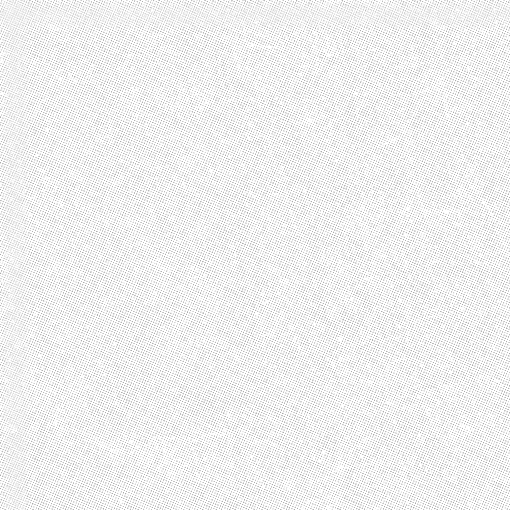
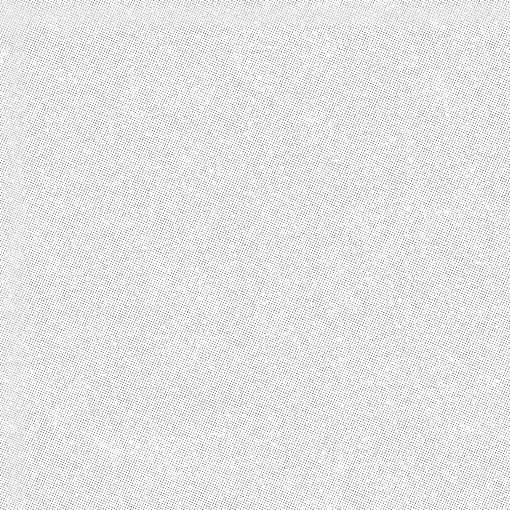
Halbtonraster größer (420 px), dunkler (×1,7) und auf allen farbigen Flächen inkl. Abspiel-, Zurück-, Pfeil- und Hoch-Knöpfen (Wunsch Nicolas)

diff --git a/archiv/2026-11-10.html b/archiv/2026-11-10.html
@@ -1298,10 +1298,17 @@ article .rubrik.nur-datum::before { display: none !important; }
 #kurz .stimme-name { display: none !important; }
 /* Halbtonraster wie in den Videos (FILMCRAFT-Vorgabe: „Grunge 265 fein“ von texturelabs, Multiplizieren, Kontrast ×1,2, nur abdunkeln)
    auf Zetteln, Überschrift-Kästen, Knöpfen und Datumsschnipseln (Nicolas 2026-11-28: „sieht zu plain aus, zu flach“). Kachel: /bilder/halbton.png */
-:root { --raster: url("/bilder/halbton.png"); --raster-gr: 320px; }   /* 2026-11-28: 170 → 320 px, Nicolas: „ein bisschen größer, sieht man fast gar nicht“ */
+:root { --raster: url("/bilder/halbton.png"); --raster-gr: 420px; }   /* 2026-11-28: 170 → 320 → 420 px und dunkler (Kachel ×1,7), Nicolas: „deutlicher, größer, dunkler, auf allen farbigen Flächen“ */
 .zettel::before { background-image: var(--raster), var(--faser), linear-gradient(115deg, rgba(255,255,255,0.16), transparent 45%, rgba(0,0,0,0.08) 75%) !important; background-size: var(--raster-gr), auto, auto !important; }
 article h3, .leiste-oben > a, .news-knopf, .story-inline .folie a, .menue-knopf { background-image: var(--raster), var(--faser) !important; background-size: var(--raster-gr), auto !important; }
 .erpress span { background-image: var(--raster) !important; background-size: var(--raster-gr) !important; }
+/* auf ALLEN farbigen Flächen: Abspiel-/Zurück-Knöpfe, Pfeile, „Alles anhören“, Hoch, Hilfe, Klebestreifen, Aufrufe, Kanal-Knöpfe, Shop */
+.hoeren button, .pfeil, #btn-lesen, button.hoch, .hilfe-knopf, span.aufrufe, article h3::after, article h3::before, a.tt, a.yt, a.patreon, a.anfrage,
+button.werte-los, span.profil::after, span.marke, button.wagen, .liste-hinweis, .kurz li a::after, .story-inline .balken span {
+  background-image: var(--raster), var(--faser) !important; background-size: var(--raster-gr), auto !important; }
+html body .leiste .hoch, html body .hoeren button.zurueck10, html body .zurueck10, html body .news-wahl a, html body .filter button, html body .menue nav a[href="/archiv/"] {
+  background-image: var(--raster), var(--faser) !important; background-size: var(--raster-gr), auto !important; }
+html.kontrast .hoeren button, html.kontrast .pfeil, html.kontrast #btn-lesen, html.kontrast button.hoch, html.kontrast .hilfe-knopf { background-image: none !important; }
 html.kontrast .zettel::before, html.kontrast article h3, html.kontrast .leiste-oben > a, html.kontrast .news-knopf, html.kontrast .erpress span { background-image: none !important; }
 </style>
 </head>

diff --git a/archiv/2026-11-11.html b/archiv/2026-11-11.html
@@ -1298,10 +1298,17 @@ article .rubrik.nur-datum::before { display: none !important; }
 #kurz .stimme-name { display: none !important; }
 /* Halbtonraster wie in den Videos (FILMCRAFT-Vorgabe: „Grunge 265 fein“ von texturelabs, Multiplizieren, Kontrast ×1,2, nur abdunkeln)
    auf Zetteln, Überschrift-Kästen, Knöpfen und Datumsschnipseln (Nicolas 2026-11-28: „sieht zu plain aus, zu flach“). Kachel: /bilder/halbton.png */
-:root { --raster: url("/bilder/halbton.png"); --raster-gr: 320px; }   /* 2026-11-28: 170 → 320 px, Nicolas: „ein bisschen größer, sieht man fast gar nicht“ */
+:root { --raster: url("/bilder/halbton.png"); --raster-gr: 420px; }   /* 2026-11-28: 170 → 320 → 420 px und dunkler (Kachel ×1,7), Nicolas: „deutlicher, größer, dunkler, auf allen farbigen Flächen“ */
 .zettel::before { background-image: var(--raster), var(--faser), linear-gradient(115deg, rgba(255,255,255,0.16), transparent 45%, rgba(0,0,0,0.08) 75%) !important; background-size: var(--raster-gr), auto, auto !important; }
 article h3, .leiste-oben > a, .news-knopf, .story-inline .folie a, .menue-knopf { background-image: var(--raster), var(--faser) !important; background-size: var(--raster-gr), auto !important; }
 .erpress span { background-image: var(--raster) !important; background-size: var(--raster-gr) !important; }
+/* auf ALLEN farbigen Flächen: Abspiel-/Zurück-Knöpfe, Pfeile, „Alles anhören“, Hoch, Hilfe, Klebestreifen, Aufrufe, Kanal-Knöpfe, Shop */
+.hoeren button, .pfeil, #btn-lesen, button.hoch, .hilfe-knopf, span.aufrufe, article h3::after, article h3::before, a.tt, a.yt, a.patreon, a.anfrage,
+button.werte-los, span.profil::after, span.marke, button.wagen, .liste-hinweis, .kurz li a::after, .story-inline .balken span {
+  background-image: var(--raster), var(--faser) !important; background-size: var(--raster-gr), auto !important; }
+html body .leiste .hoch, html body .hoeren button.zurueck10, html body .zurueck10, html body .news-wahl a, html body .filter button, html body .menue nav a[href="/archiv/"] {
+  background-image: var(--raster), var(--faser) !important; background-size: var(--raster-gr), auto !important; }
+html.kontrast .hoeren button, html.kontrast .pfeil, html.kontrast #btn-lesen, html.kontrast button.hoch, html.kontrast .hilfe-knopf { background-image: none !important; }
 html.kontrast .zettel::before, html.kontrast article h3, html.kontrast .leiste-oben > a, html.kontrast .news-knopf, html.kontrast .erpress span { background-image: none !important; }
 </style>
 </head>

diff --git a/archiv/2026-11-12.html b/archiv/2026-11-12.html
@@ -1298,10 +1298,17 @@ article .rubrik.nur-datum::before { display: none !important; }
 #kurz .stimme-name { display: none !important; }
 /* Halbtonraster wie in den Videos (FILMCRAFT-Vorgabe: „Grunge 265 fein“ von texturelabs, Multiplizieren, Kontrast ×1,2, nur abdunkeln)
    auf Zetteln, Überschrift-Kästen, Knöpfen und Datumsschnipseln (Nicolas 2026-11-28: „sieht zu plain aus, zu flach“). Kachel: /bilder/halbton.png */
-:root { --raster: url("/bilder/halbton.png"); --raster-gr: 320px; }   /* 2026-11-28: 170 → 320 px, Nicolas: „ein bisschen größer, sieht man fast gar nicht“ */
+:root { --raster: url("/bilder/halbton.png"); --raster-gr: 420px; }   /* 2026-11-28: 170 → 320 → 420 px und dunkler (Kachel ×1,7), Nicolas: „deutlicher, größer, dunkler, auf allen farbigen Flächen“ */
 .zettel::before { background-image: var(--raster), var(--faser), linear-gradient(115deg, rgba(255,255,255,0.16), transparent 45%, rgba(0,0,0,0.08) 75%) !important; background-size: var(--raster-gr), auto, auto !important; }
 article h3, .leiste-oben > a, .news-knopf, .story-inline .folie a, .menue-knopf { background-image: var(--raster), var(--faser) !important; background-size: var(--raster-gr), auto !important; }
 .erpress span { background-image: var(--raster) !important; background-size: var(--raster-gr) !important; }
+/* auf ALLEN farbigen Flächen: Abspiel-/Zurück-Knöpfe, Pfeile, „Alles anhören“, Hoch, Hilfe, Klebestreifen, Aufrufe, Kanal-Knöpfe, Shop */
+.hoeren button, .pfeil, #btn-lesen, button.hoch, .hilfe-knopf, span.aufrufe, article h3::after, article h3::before, a.tt, a.yt, a.patreon, a.anfrage,
+button.werte-los, span.profil::after, span.marke, button.wagen, .liste-hinweis, .kurz li a::after, .story-inline .balken span {
+  background-image: var(--raster), var(--faser) !important; background-size: var(--raster-gr), auto !important; }
+html body .leiste .hoch, html body .hoeren button.zurueck10, html body .zurueck10, html body .news-wahl a, html body .filter button, html body .menue nav a[href="/archiv/"] {
+  background-image: var(--raster), var(--faser) !important; background-size: var(--raster-gr), auto !important; }
+html.kontrast .hoeren button, html.kontrast .pfeil, html.kontrast #btn-lesen, html.kontrast button.hoch, html.kontrast .hilfe-knopf { background-image: none !important; }
 html.kontrast .zettel::before, html.kontrast article h3, html.kontrast .leiste-oben > a, html.kontrast .news-knopf, html.kontrast .erpress span { background-image: none !important; }
 </style>
 </head>

diff --git a/archiv/2026-11-13.html b/archiv/2026-11-13.html
@@ -1298,10 +1298,17 @@ article .rubrik.nur-datum::before { display: none !important; }
 #kurz .stimme-name { display: none !important; }
 /* Halbtonraster wie in den Videos (FILMCRAFT-Vorgabe: „Grunge 265 fein“ von texturelabs, Multiplizieren, Kontrast ×1,2, nur abdunkeln)
    auf Zetteln, Überschrift-Kästen, Knöpfen und Datumsschnipseln (Nicolas 2026-11-28: „sieht zu plain aus, zu flach“). Kachel: /bilder/halbton.png */
-:root { --raster: url("/bilder/halbton.png"); --raster-gr: 320px; }   /* 2026-11-28: 170 → 320 px, Nicolas: „ein bisschen größer, sieht man fast gar nicht“ */
+:root { --raster: url("/bilder/halbton.png"); --raster-gr: 420px; }   /* 2026-11-28: 170 → 320 → 420 px und dunkler (Kachel ×1,7), Nicolas: „deutlicher, größer, dunkler, auf allen farbigen Flächen“ */
 .zettel::before { background-image: var(--raster), var(--faser), linear-gradient(115deg, rgba(255,255,255,0.16), transparent 45%, rgba(0,0,0,0.08) 75%) !important; background-size: var(--raster-gr), auto, auto !important; }
 article h3, .leiste-oben > a, .news-knopf, .story-inline .folie a, .menue-knopf { background-image: var(--raster), var(--faser) !important; background-size: var(--raster-gr), auto !important; }
 .erpress span { background-image: var(--raster) !important; background-size: var(--raster-gr) !important; }
+/* auf ALLEN farbigen Flächen: Abspiel-/Zurück-Knöpfe, Pfeile, „Alles anhören“, Hoch, Hilfe, Klebestreifen, Aufrufe, Kanal-Knöpfe, Shop */
+.hoeren button, .pfeil, #btn-lesen, button.hoch, .hilfe-knopf, span.aufrufe, article h3::after, article h3::before, a.tt, a.yt, a.patreon, a.anfrage,
+button.werte-los, span.profil::after, span.marke, button.wagen, .liste-hinweis, .kurz li a::after, .story-inline .balken span {
+  background-image: var(--raster), var(--faser) !important; background-size: var(--raster-gr), auto !important; }
+html body .leiste .hoch, html body .hoeren button.zurueck10, html body .zurueck10, html body .news-wahl a, html body .filter button, html body .menue nav a[href="/archiv/"] {
+  background-image: var(--raster), var(--faser) !important; background-size: var(--raster-gr), auto !important; }
+html.kontrast .hoeren button, html.kontrast .pfeil, html.kontrast #btn-lesen, html.kontrast button.hoch, html.kontrast .hilfe-knopf { background-image: none !important; }
 html.kontrast .zettel::before, html.kontrast article h3, html.kontrast .leiste-oben > a, html.kontrast .news-knopf, html.kontrast .erpress span { background-image: none !important; }
 </style>
 </head>

diff --git a/archiv/2026-11-14.html b/archiv/2026-11-14.html
@@ -1298,10 +1298,17 @@ article .rubrik.nur-datum::before { display: none !important; }
 #kurz .stimme-name { display: none !important; }
 /* Halbtonraster wie in den Videos (FILMCRAFT-Vorgabe: „Grunge 265 fein“ von texturelabs, Multiplizieren, Kontrast ×1,2, nur abdunkeln)
    auf Zetteln, Überschrift-Kästen, Knöpfen und Datumsschnipseln (Nicolas 2026-11-28: „sieht zu plain aus, zu flach“). Kachel: /bilder/halbton.png */
-:root { --raster: url("/bilder/halbton.png"); --raster-gr: 320px; }   /* 2026-11-28: 170 → 320 px, Nicolas: „ein bisschen größer, sieht man fast gar nicht“ */
+:root { --raster: url("/bilder/halbton.png"); --raster-gr: 420px; }   /* 2026-11-28: 170 → 320 → 420 px und dunkler (Kachel ×1,7), Nicolas: „deutlicher, größer, dunkler, auf allen farbigen Flächen“ */
 .zettel::before { background-image: var(--raster), var(--faser), linear-gradient(115deg, rgba(255,255,255,0.16), transparent 45%, rgba(0,0,0,0.08) 75%) !important; background-size: var(--raster-gr), auto, auto !important; }
 article h3, .leiste-oben > a, .news-knopf, .story-inline .folie a, .menue-knopf { background-image: var(--raster), var(--faser) !important; background-size: var(--raster-gr), auto !important; }
 .erpress span { background-image: var(--raster) !important; background-size: var(--raster-gr) !important; }
+/* auf ALLEN farbigen Flächen: Abspiel-/Zurück-Knöpfe, Pfeile, „Alles anhören“, Hoch, Hilfe, Klebestreifen, Aufrufe, Kanal-Knöpfe, Shop */
+.hoeren button, .pfeil, #btn-lesen, button.hoch, .hilfe-knopf, span.aufrufe, article h3::after, article h3::before, a.tt, a.yt, a.patreon, a.anfrage,
+button.werte-los, span.profil::after, span.marke, button.wagen, .liste-hinweis, .kurz li a::after, .story-inline .balken span {
+  background-image: var(--raster), var(--faser) !important; background-size: var(--raster-gr), auto !important; }
+html body .leiste .hoch, html body .hoeren button.zurueck10, html body .zurueck10, html body .news-wahl a, html body .filter button, html body .menue nav a[href="/archiv/"] {
+  background-image: var(--raster), var(--faser) !important; background-size: var(--raster-gr), auto !important; }
+html.kontrast .hoeren button, html.kontrast .pfeil, html.kontrast #btn-lesen, html.kontrast button.hoch, html.kontrast .hilfe-knopf { background-image: none !important; }
 html.kontrast .zettel::before, html.kontrast article h3, html.kontrast .leiste-oben > a, html.kontrast .news-knopf, html.kontrast .erpress span { background-image: none !important; }
 </style>
 </head>

diff --git a/archiv/2026-11-15.html b/archiv/2026-11-15.html
@@ -1298,10 +1298,17 @@ article .rubrik.nur-datum::before { display: none !important; }
 #kurz .stimme-name { display: none !important; }
 /* Halbtonraster wie in den Videos (FILMCRAFT-Vorgabe: „Grunge 265 fein“ von texturelabs, Multiplizieren, Kontrast ×1,2, nur abdunkeln)
    auf Zetteln, Überschrift-Kästen, Knöpfen und Datumsschnipseln (Nicolas 2026-11-28: „sieht zu plain aus, zu flach“). Kachel: /bilder/halbton.png */
-:root { --raster: url("/bilder/halbton.png"); --raster-gr: 320px; }   /* 2026-11-28: 170 → 320 px, Nicolas: „ein bisschen größer, sieht man fast gar nicht“ */
+:root { --raster: url("/bilder/halbton.png"); --raster-gr: 420px; }   /* 2026-11-28: 170 → 320 → 420 px und dunkler (Kachel ×1,7), Nicolas: „deutlicher, größer, dunkler, auf allen farbigen Flächen“ */
 .zettel::before { background-image: var(--raster), var(--faser), linear-gradient(115deg, rgba(255,255,255,0.16), transparent 45%, rgba(0,0,0,0.08) 75%) !important; background-size: var(--raster-gr), auto, auto !important; }
 article h3, .leiste-oben > a, .news-knopf, .story-inline .folie a, .menue-knopf { background-image: var(--raster), var(--faser) !important; background-size: var(--raster-gr), auto !important; }
 .erpress span { background-image: var(--raster) !important; background-size: var(--raster-gr) !important; }
+/* auf ALLEN farbigen Flächen: Abspiel-/Zurück-Knöpfe, Pfeile, „Alles anhören“, Hoch, Hilfe, Klebestreifen, Aufrufe, Kanal-Knöpfe, Shop */
+.hoeren button, .pfeil, #btn-lesen, button.hoch, .hilfe-knopf, span.aufrufe, article h3::after, article h3::before, a.tt, a.yt, a.patreon, a.anfrage,
+button.werte-los, span.profil::after, span.marke, button.wagen, .liste-hinweis, .kurz li a::after, .story-inline .balken span {
+  background-image: var(--raster), var(--faser) !important; background-size: var(--raster-gr), auto !important; }
+html body .leiste .hoch, html body .hoeren button.zurueck10, html body .zurueck10, html body .news-wahl a, html body .filter button, html body .menue nav a[href="/archiv/"] {
+  background-image: var(--raster), var(--faser) !important; background-size: var(--raster-gr), auto !important; }
+html.kontrast .hoeren button, html.kontrast .pfeil, html.kontrast #btn-lesen, html.kontrast button.hoch, html.kontrast .hilfe-knopf { background-image: none !important; }
 html.kontrast .zettel::before, html.kontrast article h3, html.kontrast .leiste-oben > a, html.kontrast .news-knopf, html.kontrast .erpress span { background-image: none !important; }
 </style>
 </head>

diff --git a/archiv/2026-11-16.html b/archiv/2026-11-16.html
@@ -1298,10 +1298,17 @@ article .rubrik.nur-datum::before { display: none !important; }
 #kurz .stimme-name { display: none !important; }
 /* Halbtonraster wie in den Videos (FILMCRAFT-Vorgabe: „Grunge 265 fein“ von texturelabs, Multiplizieren, Kontrast ×1,2, nur abdunkeln)
    auf Zetteln, Überschrift-Kästen, Knöpfen und Datumsschnipseln (Nicolas 2026-11-28: „sieht zu plain aus, zu flach“). Kachel: /bilder/halbton.png */
-:root { --raster: url("/bilder/halbton.png"); --raster-gr: 320px; }   /* 2026-11-28: 170 → 320 px, Nicolas: „ein bisschen größer, sieht man fast gar nicht“ */
+:root { --raster: url("/bilder/halbton.png"); --raster-gr: 420px; }   /* 2026-11-28: 170 → 320 → 420 px und dunkler (Kachel ×1,7), Nicolas: „deutlicher, größer, dunkler, auf allen farbigen Flächen“ */
 .zettel::before { background-image: var(--raster), var(--faser), linear-gradient(115deg, rgba(255,255,255,0.16), transparent 45%, rgba(0,0,0,0.08) 75%) !important; background-size: var(--raster-gr), auto, auto !important; }
 article h3, .leiste-oben > a, .news-knopf, .story-inline .folie a, .menue-knopf { background-image: var(--raster), var(--faser) !important; background-size: var(--raster-gr), auto !important; }
 .erpress span { background-image: var(--raster) !important; background-size: var(--raster-gr) !important; }
+/* auf ALLEN farbigen Flächen: Abspiel-/Zurück-Knöpfe, Pfeile, „Alles anhören“, Hoch, Hilfe, Klebestreifen, Aufrufe, Kanal-Knöpfe, Shop */
+.hoeren button, .pfeil, #btn-lesen, button.hoch, .hilfe-knopf, span.aufrufe, article h3::after, article h3::before, a.tt, a.yt, a.patreon, a.anfrage,
+button.werte-los, span.profil::after, span.marke, button.wagen, .liste-hinweis, .kurz li a::after, .story-inline .balken span {
+  background-image: var(--raster), var(--faser) !important; background-size: var(--raster-gr), auto !important; }
+html body .leiste .hoch, html body .hoeren button.zurueck10, html body .zurueck10, html body .news-wahl a, html body .filter button, html body .menue nav a[href="/archiv/"] {
+  background-image: var(--raster), var(--faser) !important; background-size: var(--raster-gr), auto !important; }
+html.kontrast .hoeren button, html.kontrast .pfeil, html.kontrast #btn-lesen, html.kontrast button.hoch, html.kontrast .hilfe-knopf { background-image: none !important; }
 html.kontrast .zettel::before, html.kontrast article h3, html.kontrast .leiste-oben > a, html.kontrast .news-knopf, html.kontrast .erpress span { background-image: none !important; }
 </style>
 </head>

diff --git a/archiv/2026-11-17.html b/archiv/2026-11-17.html
@@ -1298,10 +1298,17 @@ article .rubrik.nur-datum::before { display: none !important; }
 #kurz .stimme-name { display: none !important; }
 /* Halbtonraster wie in den Videos (FILMCRAFT-Vorgabe: „Grunge 265 fein“ von texturelabs, Multiplizieren, Kontrast ×1,2, nur abdunkeln)
    auf Zetteln, Überschrift-Kästen, Knöpfen und Datumsschnipseln (Nicolas 2026-11-28: „sieht zu plain aus, zu flach“). Kachel: /bilder/halbton.png */
-:root { --raster: url("/bilder/halbton.png"); --raster-gr: 320px; }   /* 2026-11-28: 170 → 320 px, Nicolas: „ein bisschen größer, sieht man fast gar nicht“ */
+:root { --raster: url("/bilder/halbton.png"); --raster-gr: 420px; }   /* 2026-11-28: 170 → 320 → 420 px und dunkler (Kachel ×1,7), Nicolas: „deutlicher, größer, dunkler, auf allen farbigen Flächen“ */
 .zettel::before { background-image: var(--raster), var(--faser), linear-gradient(115deg, rgba(255,255,255,0.16), transparent 45%, rgba(0,0,0,0.08) 75%) !important; background-size: var(--raster-gr), auto, auto !important; }
 article h3, .leiste-oben > a, .news-knopf, .story-inline .folie a, .menue-knopf { background-image: var(--raster), var(--faser) !important; background-size: var(--raster-gr), auto !important; }
 .erpress span { background-image: var(--raster) !important; background-size: var(--raster-gr) !important; }
+/* auf ALLEN farbigen Flächen: Abspiel-/Zurück-Knöpfe, Pfeile, „Alles anhören“, Hoch, Hilfe, Klebestreifen, Aufrufe, Kanal-Knöpfe, Shop */
+.hoeren button, .pfeil, #btn-lesen, button.hoch, .hilfe-knopf, span.aufrufe, article h3::after, article h3::before, a.tt, a.yt, a.patreon, a.anfrage,
+button.werte-los, span.profil::after, span.marke, button.wagen, .liste-hinweis, .kurz li a::after, .story-inline .balken span {
+  background-image: var(--raster), var(--faser) !important; background-size: var(--raster-gr), auto !important; }
+html body .leiste .hoch, html body .hoeren button.zurueck10, html body .zurueck10, html body .news-wahl a, html body .filter button, html body .menue nav a[href="/archiv/"] {
+  background-image: var(--raster), var(--faser) !important; background-size: var(--raster-gr), auto !important; }
+html.kontrast .hoeren button, html.kontrast .pfeil, html.kontrast #btn-lesen, html.kontrast button.hoch, html.kontrast .hilfe-knopf { background-image: none !important; }
 html.kontrast .zettel::before, html.kontrast article h3, html.kontrast .leiste-oben > a, html.kontrast .news-knopf, html.kontrast .erpress span { background-image: none !important; }
 </style>
 </head>

diff --git a/archiv/2026-11-18.html b/archiv/2026-11-18.html
@@ -1298,10 +1298,17 @@ article .rubrik.nur-datum::before { display: none !important; }
 #kurz .stimme-name { display: none !important; }
 /* Halbtonraster wie in den Videos (FILMCRAFT-Vorgabe: „Grunge 265 fein“ von texturelabs, Multiplizieren, Kontrast ×1,2, nur abdunkeln)
    auf Zetteln, Überschrift-Kästen, Knöpfen und Datumsschnipseln (Nicolas 2026-11-28: „sieht zu plain aus, zu flach“). Kachel: /bilder/halbton.png */
-:root { --raster: url("/bilder/halbton.png"); --raster-gr: 320px; }   /* 2026-11-28: 170 → 320 px, Nicolas: „ein bisschen größer, sieht man fast gar nicht“ */
+:root { --raster: url("/bilder/halbton.png"); --raster-gr: 420px; }   /* 2026-11-28: 170 → 320 → 420 px und dunkler (Kachel ×1,7), Nicolas: „deutlicher, größer, dunkler, auf allen farbigen Flächen“ */
 .zettel::before { background-image: var(--raster), var(--faser), linear-gradient(115deg, rgba(255,255,255,0.16), transparent 45%, rgba(0,0,0,0.08) 75%) !important; background-size: var(--raster-gr), auto, auto !important; }
 article h3, .leiste-oben > a, .news-knopf, .story-inline .folie a, .menue-knopf { background-image: var(--raster), var(--faser) !important; background-size: var(--raster-gr), auto !important; }
 .erpress span { background-image: var(--raster) !important; background-size: var(--raster-gr) !important; }
+/* auf ALLEN farbigen Flächen: Abspiel-/Zurück-Knöpfe, Pfeile, „Alles anhören“, Hoch, Hilfe, Klebestreifen, Aufrufe, Kanal-Knöpfe, Shop */
+.hoeren button, .pfeil, #btn-lesen, button.hoch, .hilfe-knopf, span.aufrufe, article h3::after, article h3::before, a.tt, a.yt, a.patreon, a.anfrage,
+button.werte-los, span.profil::after, span.marke, button.wagen, .liste-hinweis, .kurz li a::after, .story-inline .balken span {
+  background-image: var(--raster), var(--faser) !important; background-size: var(--raster-gr), auto !important; }
+html body .leiste .hoch, html body .hoeren button.zurueck10, html body .zurueck10, html body .news-wahl a, html body .filter button, html body .menue nav a[href="/archiv/"] {
+  background-image: var(--raster), var(--faser) !important; background-size: var(--raster-gr), auto !important; }
+html.kontrast .hoeren button, html.kontrast .pfeil, html.kontrast #btn-lesen, html.kontrast button.hoch, html.kontrast .hilfe-knopf { background-image: none !important; }
 html.kontrast .zettel::before, html.kontrast article h3, html.kontrast .leiste-oben > a, html.kontrast .news-knopf, html.kontrast .erpress span { background-image: none !important; }
 </style>
 </head>

diff --git a/archiv/2026-11-19.html b/archiv/2026-11-19.html
@@ -1298,10 +1298,17 @@ article .rubrik.nur-datum::before { display: none !important; }
 #kurz .stimme-name { display: none !important; }
 /* Halbtonraster wie in den Videos (FILMCRAFT-Vorgabe: „Grunge 265 fein“ von texturelabs, Multiplizieren, Kontrast ×1,2, nur abdunkeln)
    auf Zetteln, Überschrift-Kästen, Knöpfen und Datumsschnipseln (Nicolas 2026-11-28: „sieht zu plain aus, zu flach“). Kachel: /bilder/halbton.png */
-:root { --raster: url("/bilder/halbton.png"); --raster-gr: 320px; }   /* 2026-11-28: 170 → 320 px, Nicolas: „ein bisschen größer, sieht man fast gar nicht“ */
+:root { --raster: url("/bilder/halbton.png"); --raster-gr: 420px; }   /* 2026-11-28: 170 → 320 → 420 px und dunkler (Kachel ×1,7), Nicolas: „deutlicher, größer, dunkler, auf allen farbigen Flächen“ */
 .zettel::before { background-image: var(--raster), var(--faser), linear-gradient(115deg, rgba(255,255,255,0.16), transparent 45%, rgba(0,0,0,0.08) 75%) !important; background-size: var(--raster-gr), auto, auto !important; }
 article h3, .leiste-oben > a, .news-knopf, .story-inline .folie a, .menue-knopf { background-image: var(--raster), var(--faser) !important; background-size: var(--raster-gr), auto !important; }
 .erpress span { background-image: var(--raster) !important; background-size: var(--raster-gr) !important; }
+/* auf ALLEN farbigen Flächen: Abspiel-/Zurück-Knöpfe, Pfeile, „Alles anhören“, Hoch, Hilfe, Klebestreifen, Aufrufe, Kanal-Knöpfe, Shop */
+.hoeren button, .pfeil, #btn-lesen, button.hoch, .hilfe-knopf, span.aufrufe, article h3::after, article h3::before, a.tt, a.yt, a.patreon, a.anfrage,
+button.werte-los, span.profil::after, span.marke, button.wagen, .liste-hinweis, .kurz li a::after, .story-inline .balken span {
+  background-image: var(--raster), var(--faser) !important; background-size: var(--raster-gr), auto !important; }
+html body .leiste .hoch, html body .hoeren button.zurueck10, html body .zurueck10, html body .news-wahl a, html body .filter button, html body .menue nav a[href="/archiv/"] {
+  background-image: var(--raster), var(--faser) !important; background-size: var(--raster-gr), auto !important; }
+html.kontrast .hoeren button, html.kontrast .pfeil, html.kontrast #btn-lesen, html.kontrast button.hoch, html.kontrast .hilfe-knopf { background-image: none !important; }
 html.kontrast .zettel::before, html.kontrast article h3, html.kontrast .leiste-oben > a, html.kontrast .news-knopf, html.kontrast .erpress span { background-image: none !important; }
 </style>
 </head>

diff --git a/archiv/2026-11-20.html b/archiv/2026-11-20.html
@@ -1298,10 +1298,17 @@ article .rubrik.nur-datum::before { display: none !important; }
 #kurz .stimme-name { display: none !important; }
 /* Halbtonraster wie in den Videos (FILMCRAFT-Vorgabe: „Grunge 265 fein“ von texturelabs, Multiplizieren, Kontrast ×1,2, nur abdunkeln)
    auf Zetteln, Überschrift-Kästen, Knöpfen und Datumsschnipseln (Nicolas 2026-11-28: „sieht zu plain aus, zu flach“). Kachel: /bilder/halbton.png */
-:root { --raster: url("/bilder/halbton.png"); --raster-gr: 320px; }   /* 2026-11-28: 170 → 320 px, Nicolas: „ein bisschen größer, sieht man fast gar nicht“ */
+:root { --raster: url("/bilder/halbton.png"); --raster-gr: 420px; }   /* 2026-11-28: 170 → 320 → 420 px und dunkler (Kachel ×1,7), Nicolas: „deutlicher, größer, dunkler, auf allen farbigen Flächen“ */
 .zettel::before { background-image: var(--raster), var(--faser), linear-gradient(115deg, rgba(255,255,255,0.16), transparent 45%, rgba(0,0,0,0.08) 75%) !important; background-size: var(--raster-gr), auto, auto !important; }
 article h3, .leiste-oben > a, .news-knopf, .story-inline .folie a, .menue-knopf { background-image: var(--raster), var(--faser) !important; background-size: var(--raster-gr), auto !important; }
 .erpress span { background-image: var(--raster) !important; background-size: var(--raster-gr) !important; }
+/* auf ALLEN farbigen Flächen: Abspiel-/Zurück-Knöpfe, Pfeile, „Alles anhören“, Hoch, Hilfe, Klebestreifen, Aufrufe, Kanal-Knöpfe, Shop */
+.hoeren button, .pfeil, #btn-lesen, button.hoch, .hilfe-knopf, span.aufrufe, article h3::after, article h3::before, a.tt, a.yt, a.patreon, a.anfrage,
+button.werte-los, span.profil::after, span.marke, button.wagen, .liste-hinweis, .kurz li a::after, .story-inline .balken span {
+  background-image: var(--raster), var(--faser) !important; background-size: var(--raster-gr), auto !important; }
+html body .leiste .hoch, html body .hoeren button.zurueck10, html body .zurueck10, html body .news-wahl a, html body .filter button, html body .menue nav a[href="/archiv/"] {
+  background-image: var(--raster), var(--faser) !important; background-size: var(--raster-gr), auto !important; }
+html.kontrast .hoeren button, html.kontrast .pfeil, html.kontrast #btn-lesen, html.kontrast button.hoch, html.kontrast .hilfe-knopf { background-image: none !important; }
 html.kontrast .zettel::before, html.kontrast article h3, html.kontrast .leiste-oben > a, html.kontrast .news-knopf, html.kontrast .erpress span { background-image: none !important; }
 </style>
 </head>

diff --git a/archiv/2026-11-21.html b/archiv/2026-11-21.html
@@ -1298,10 +1298,17 @@ article .rubrik.nur-datum::before { display: none !important; }
 #kurz .stimme-name { display: none !important; }
 /* Halbtonraster wie in den Videos (FILMCRAFT-Vorgabe: „Grunge 265 fein“ von texturelabs, Multiplizieren, Kontrast ×1,2, nur abdunkeln)
    auf Zetteln, Überschrift-Kästen, Knöpfen und Datumsschnipseln (Nicolas 2026-11-28: „sieht zu plain aus, zu flach“). Kachel: /bilder/halbton.png */
-:root { --raster: url("/bilder/halbton.png"); --raster-gr: 320px; }   /* 2026-11-28: 170 → 320 px, Nicolas: „ein bisschen größer, sieht man fast gar nicht“ */
+:root { --raster: url("/bilder/halbton.png"); --raster-gr: 420px; }   /* 2026-11-28: 170 → 320 → 420 px und dunkler (Kachel ×1,7), Nicolas: „deutlicher, größer, dunkler, auf allen farbigen Flächen“ */
 .zettel::before { background-image: var(--raster), var(--faser), linear-gradient(115deg, rgba(255,255,255,0.16), transparent 45%, rgba(0,0,0,0.08) 75%) !important; background-size: var(--raster-gr), auto, auto !important; }
 article h3, .leiste-oben > a, .news-knopf, .story-inline .folie a, .menue-knopf { background-image: var(--raster), var(--faser) !important; background-size: var(--raster-gr), auto !important; }
 .erpress span { background-image: var(--raster) !important; background-size: var(--raster-gr) !important; }
+/* auf ALLEN farbigen Flächen: Abspiel-/Zurück-Knöpfe, Pfeile, „Alles anhören“, Hoch, Hilfe, Klebestreifen, Aufrufe, Kanal-Knöpfe, Shop */
+.hoeren button, .pfeil, #btn-lesen, button.hoch, .hilfe-knopf, span.aufrufe, article h3::after, article h3::before, a.tt, a.yt, a.patreon, a.anfrage,
+button.werte-los, span.profil::after, span.marke, button.wagen, .liste-hinweis, .kurz li a::after, .story-inline .balken span {
+  background-image: var(--raster), var(--faser) !important; background-size: var(--raster-gr), auto !important; }
+html body .leiste .hoch, html body .hoeren button.zurueck10, html body .zurueck10, html body .news-wahl a, html body .filter button, html body .menue nav a[href="/archiv/"] {
+  background-image: var(--raster), var(--faser) !important; background-size: var(--raster-gr), auto !important; }
+html.kontrast .hoeren button, html.kontrast .pfeil, html.kontrast #btn-lesen, html.kontrast button.hoch, html.kontrast .hilfe-knopf { background-image: none !important; }
 html.kontrast .zettel::before, html.kontrast article h3, html.kontrast .leiste-oben > a, html.kontrast .news-knopf, html.kontrast .erpress span { background-image: none !important; }
 </style>
 </head>
